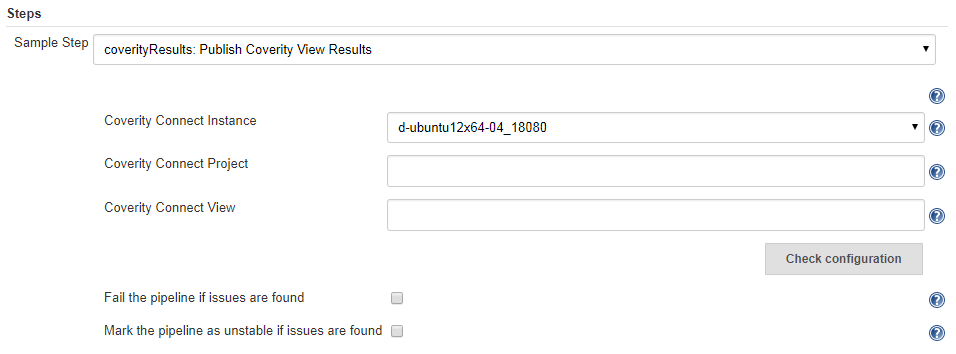
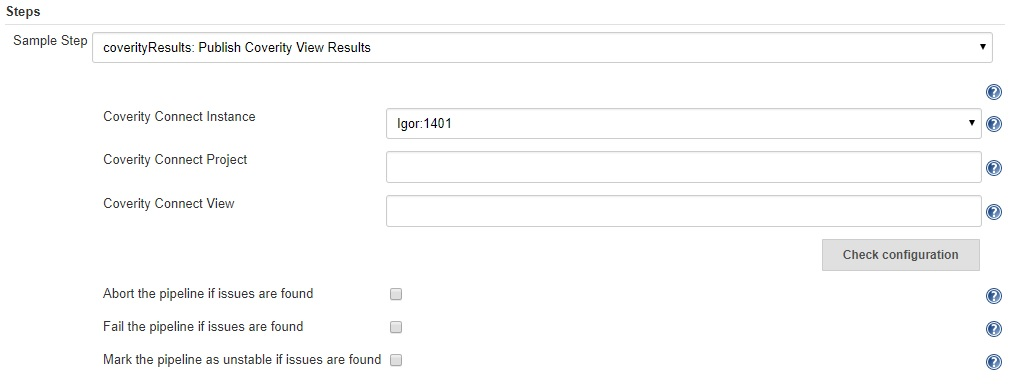
Updated the "ReadMe" as well as order of options displayed in the UI.

diff --git a/src/main/java/jenkins/plugins/coverity/CoverityViewResultsPublisher.java b/src/main/java/jenkins/plugins/coverity/CoverityViewResultsPublisher.java
@@ -76,15 +76,15 @@ public class CoverityViewResultsPublisher extends Recorder implements SimpleBuil
             ViewIssuesReader reader = new ViewIssuesReader(run, listener.getLogger(), this);
             reader.getIssuesFromConnectView();
             final CoverityBuildAction buildAction = run.getAction(CoverityBuildAction.class);
-            if (failPipeline && buildAction.getDefects().size() > 0) {
+            if (abortPipeline && buildAction.getDefects().size() > 0) {
+                logger.println("[Coverity] Coverity issues were found and abortPipeline was set to true, throwing abort exception.");
+                throw new AbortException("Coverity issues were found");
+            } else if (failPipeline && buildAction.getDefects().size() > 0) {
                 logger.println("[Coverity] Coverity issues were found and failPipeline was set to true, the pipeline result will be marked as FAILURE.");
                 run.setResult(Result.FAILURE);
             } else if (unstable && buildAction.getDefects().size() > 0) {
                 logger.println("[Coverity] Coverity issues were found and unstable was set to true, the pipeline result will be marked as UNSTABLE.");
                 run.setResult(Result.UNSTABLE);
-            } else if (abortPipeline && buildAction.getDefects().size() > 0) {
-                logger.println("[Coverity] Coverity issues were found and abortPipeline was set to true, throwing abort exception.");
-                throw new AbortException("Coverity issues were found");
             }
         } catch (Exception e) {
             logger.println("[Coverity] Error Publishing Coverity View Results");

diff --git a/README.md b/README.md
@@ -233,7 +233,8 @@ coverityResults connectInstance: 'cov-connect', connectView: 'JenkinsPipelineVie
 ```
 *  Use the Pipeline Syntax Snippet Generator to get help choosing a Coverity Connect Instance and verifying the Project and View values
 ![Screenshot of coverityResults Pipeline Syntax Snippet Generator](screenshots/coverityResults-snippet-generator.png)
-*  Advanced options are available to fail the pipeline or mark the pipeline as unstable if any issues were found in the Coverity Connect View (use `failPipeline` or `unstable`, these both default to false).
+*  Advanced options are available to abort the pipeline, fail the pipeline or mark the pipeline as unstable if any issues were found in the Coverity Connect View (use `abortPipeline`, `failPipeline` or `unstable`, default value for these options is false).
+* `abortPipeline` takes precedence over `failPipeline` and `failPipeline`takes precedence over `unstable`.
 *  The View can be configured within the Coverity Connect User Interface (use the same user credentials which will connect during the pipeline run). See the Coverity Platform User and Administrator Guide for information on configuring views.
    *  The View must be configured as an "Issues: By Snapshot" View Type. This can ensure the most recently committed issues are used, by keeping the default View "Snaphost Scope" of `last()`.
    *  The view should include the columns "CID", "Checker", "File", and "Function" in order to properly record issues per pipeline run (otherwise just a count may be shown).
